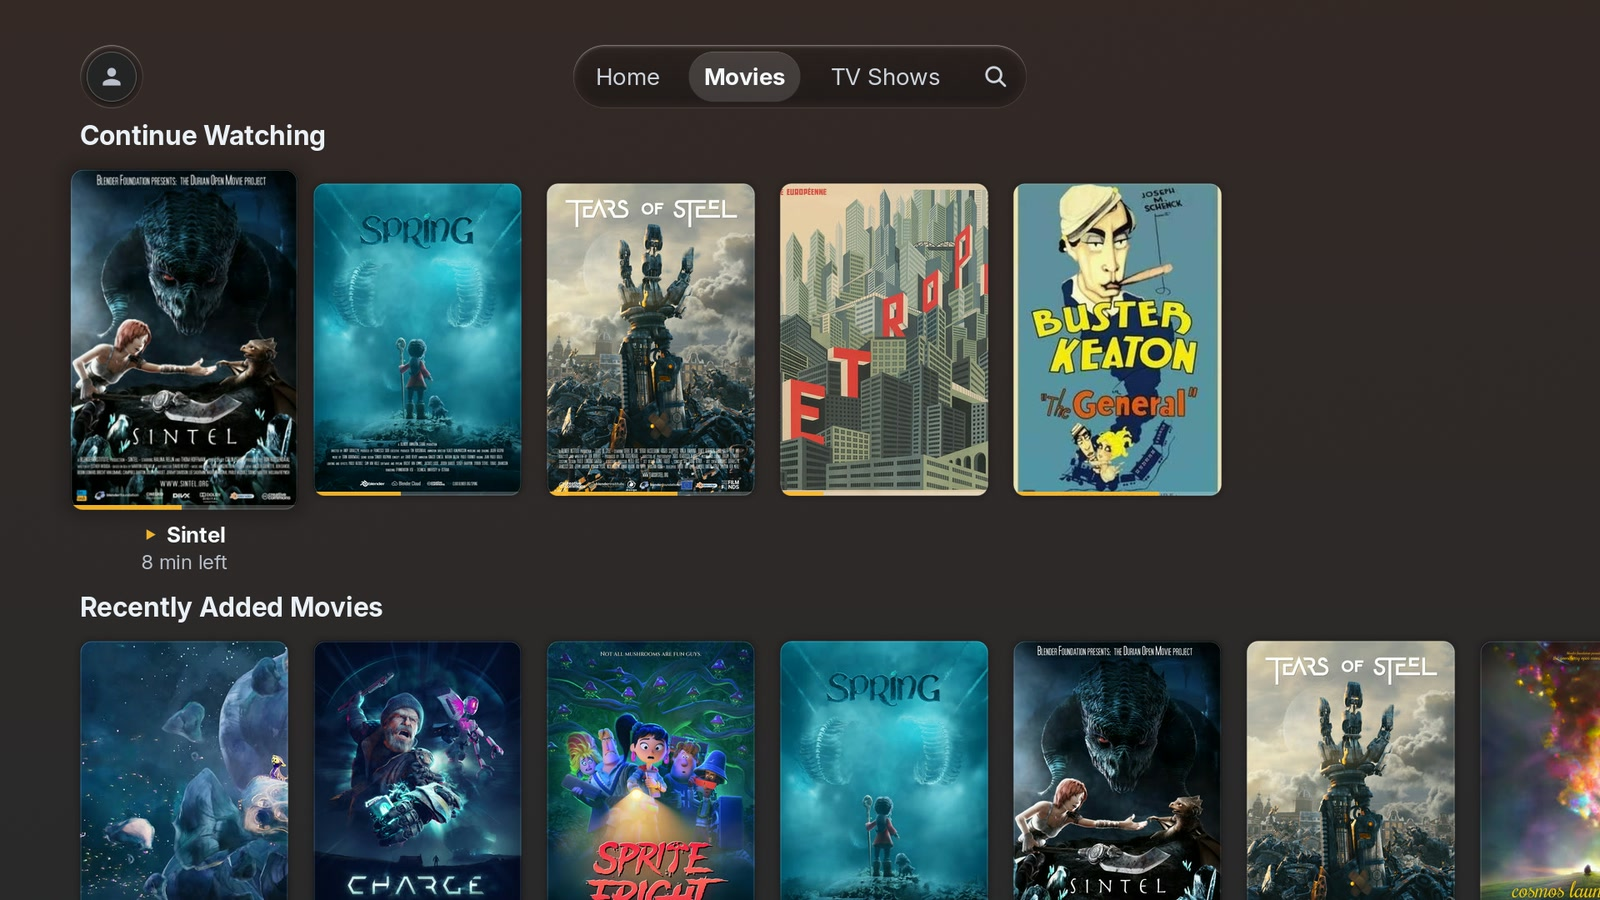
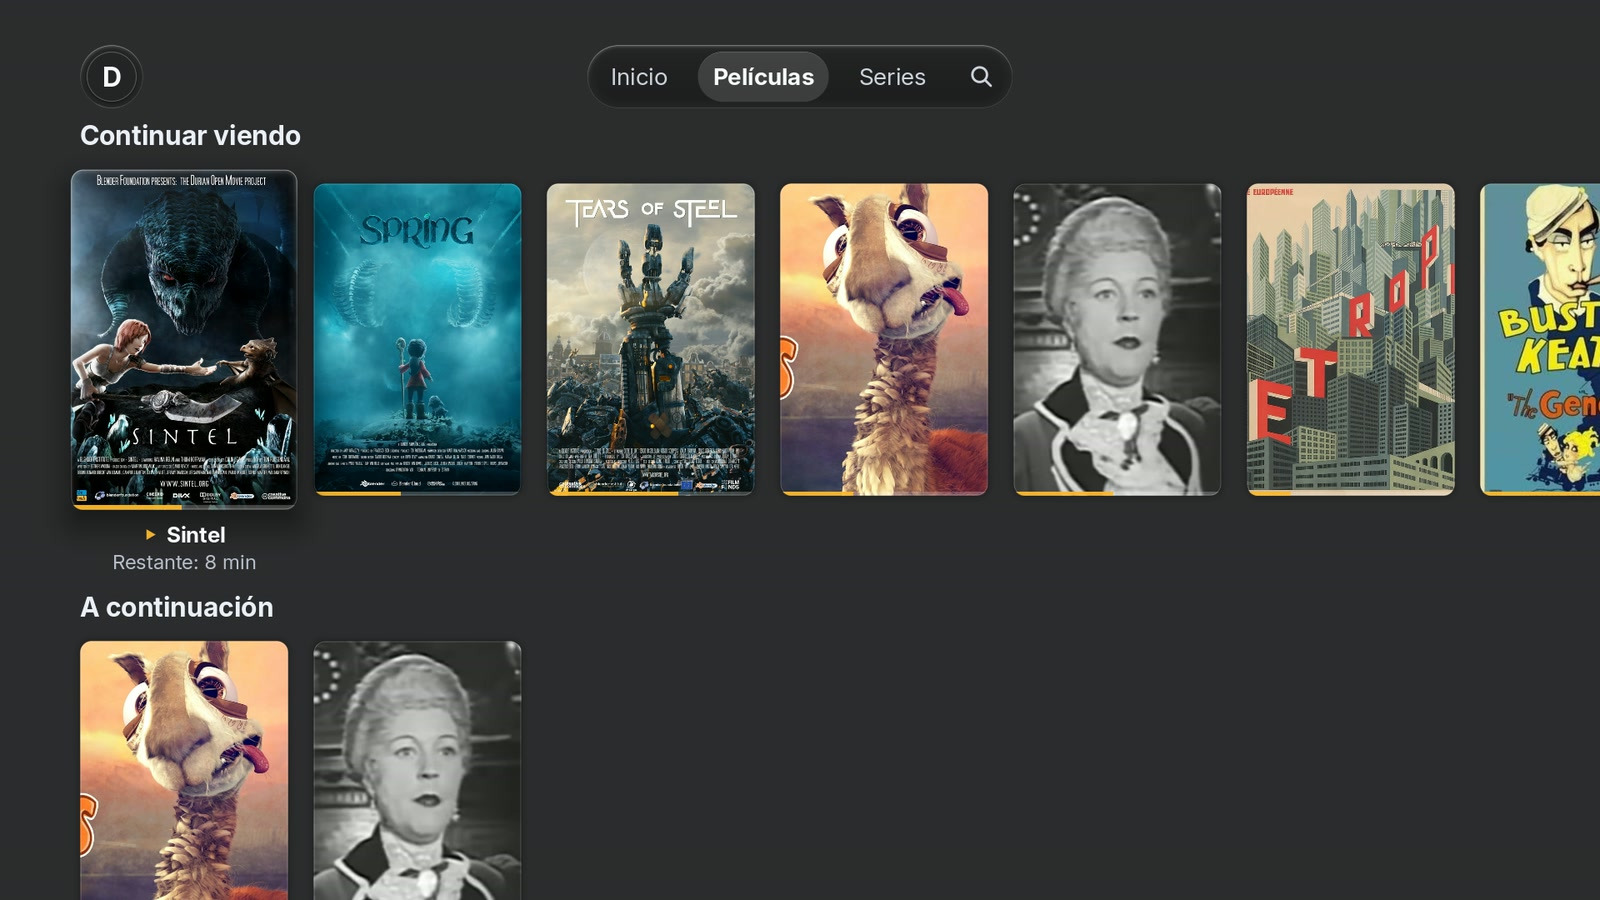
library: publish the catalog hub shelves (#238)
The library screen has drawn no hub shelves since #184 cut the Plex browse arms. The worker that fetched the shelves went with them and never came back on the Jellyfin catalog, so `LibraryScreen.shelves` stayed empty: the screen drew its grid only, and the `libshelf` screenshot trigger could never settle.

This publishes the catalog's shelves into the store the library already consumes.

## What changed

- `browse/section_hubs.rs`: `HubsSnapshot::projected()` builds a section-hubs snapshot from a catalog `HubsView`, so the presentation type and its consumers stay as they are. The catalog already fetches Continue Watching, Next Up and one "recently added" hub per Jellyfin view, and carries its own loading state.
- `app/bridge.rs`: `capture_views` projects the catalog snapshot into `section_hubs` when the catalog has hubs, so test bridges that seed the store directly keep their rows.
- `screens/library/mod.rs`: the shelf list keeps only the rows this section owns, comparing the hub id's Jellyfin GUID with the GUID behind the section's synthetic view key (`jellyfin::browse::view_for_key`), so a Movies library shows Continue Watching and its own latest row, not TV's. Free-form ids used by test seeds keep passing.
- `screens/library/draw.rs` and `focused_item` find the row by id in the publication instead of assuming publication order matches the drawn order.
[…]

diff --git a/rust-modules/src/screens/library/mod.rs b/rust-modules/src/screens/library/mod.rs
@@ -35,7 +35,7 @@ use crate::screens::registry::{
     LibraryReq, LibrarySectionIdentity, LibraryViewport, PageMemory,
 };
 use crate::stores::{StoreCmd, StoreId, StoreWork};
-use crate::stores::browse::{BrowseCmd, LibraryWork, SectionAddress};
+use crate::stores::browse::{BrowseCmd, HubsId, LibraryWork, SectionAddress};
 use crate::ui::card_row::{CardRow, RowStyle};
 use crate::ui::consts::{MARGIN_X, SCR_W, SCR_H, K_SCROLL, CARD_DY};
 use crate::ui::frame::Budget;
@@ -156,7 +156,7 @@ pub(crate) struct LibraryScreen {
     epoch: Option<u32>,
     query: Option<u32>,
     grid_reset_pending: bool,
-    shelf_publication: Option<(crate::browse::section_hubs::HubsId, u64)>,
+    shelf_publication: Option<(HubsId, u64)>,
     layout: Layout,
     target_layout: Layout,
     scroll: Spring,
@@ -381,7 +381,14 @@ impl LibraryScreen {
         if self.shelf_publication != publication {
             let mut old = std::mem::take(&mut self.shelves);
             if let Some(section) = &identity {
-                for (index, shelf) in hubs.shelves().iter().take(MAX_SHELVES).enumerate() {
+                // `section.key` is the synthetic view key, the hub id carries the Jellyfin GUID.
+                let wanted = crate::jellyfin::browse::view_for_key(section.key)
+                    .map(|guid| format!("jf.latest.{guid}"));
+                for (index, shelf) in hubs.shelves().iter().enumerate() {
+                    // Catalog shelves carry a `jf.latest.<view id>` id: keep only this section's.
+                    // Continue Watching has no view, and test seeds use free-form ids.
+                    if shelf.id.starts_with("jf.latest.") && Some(shelf.id.as_str()) != wanted.as_deref() { continue; }
+                    if self.shelves.len() >= MAX_SHELVES { break; }
                     let group = GroupId(self.keys.register(
                         LibraryIdentity::Control { section: section.clone(), kind: "shelf-group".into(), key: shelf.id.clone() },
                         GroupId(0), index));
@@ -535,7 +542,7 @@ impl LibraryScreen {
         if let Some(index) = self.pair.detail.index_of(key.elem) { return H::listing(cx).item(index); }
         let (row, col) = self.shelves.iter().enumerate().find_map(|(row, shelf)|
             shelf.elems.iter().position(|elem| *elem == key.elem).map(|col| (row, col)))?;
-        H::section_hubs(cx).shelves().get(row)?.items.get(col)
+        H::section_hubs(cx).shelves().iter().find(|s| s.id == self.shelves[row].id)?.items.get(col)
     }
 
     pub(crate) fn grid_position(&self, focus: Option<FocusKey<u32>>) -> Option<(usize, usize)> {
@@ -576,7 +583,9 @@ impl LibraryScreen {
 
     fn from_deck<H: LibraryLike>(&self, elem: u32, cx: &Cx<'_, H>) -> bool {
         self.shelves.iter().position(|row| row.elems.contains(&elem))
-            .and_then(|row| H::section_hubs(cx).shelves().get(row)).is_some_and(|row| row.is_continue)
+            .and_then(|row| self.shelves.get(row))
+            .and_then(|row| H::section_hubs(cx).shelves().iter().find(|s| s.id == row.id))
+            .is_some_and(|shelf| shelf.is_continue)
     }
 
     fn activate<H: LibraryLike>(&mut self, elem: u32, held: bool, cx: &Cx<'_, H>, fx: &mut Effects<'_, H>) -> Handled {

diff --git a/rust-modules/src/browse/section_hubs.rs b/rust-modules/src/browse/section_hubs.rs
@@ -138,6 +138,42 @@ impl HubsSnapshot {
             revision: self.revision,
         }
     }
+
+    /// The Library's shelves, read off the Home catalog. Since the server browse arm went (#166)
+    /// the catalog is the only owner of hub data left, so the publication this screen renders is a
+    /// projection of it rather than a second fetch. Items are cloned once per catalog generation,
+    /// never per frame: the caller stores the result and compares revisions.
+    ///
+    /// The projection publishes whatever the catalog holds right now, including nothing. The
+    /// catalog carries its own load state, and a screen that waited on its own first-paint window
+    /// here would hold itself at black for shelves nobody asked for.
+    pub(crate) fn projected(hubs: crate::catalog::HubsView<'_>) -> Self {
+        let mut shelves = Vec::with_capacity(hubs.hub_count());
+        for index in 0..hubs.hub_count() {
+            let Some(hub) = hubs.hub(index) else { continue };
+            let (id, key, is_continue) = match hub.identity {
+                Some(crate::catalog::HubIdentity::ContinueWatching) =>
+                    ("home.continue".to_string(), String::new(), true),
+                Some(crate::catalog::HubIdentity::Identifier { id, key, .. }) =>
+                    (id.to_string(), key.to_string(), false),
+                Some(crate::catalog::HubIdentity::Key { key, .. }) =>
+                    (key.to_string(), key.to_string(), false),
+                None => (format!("hub-{index}"), String::new(), false),
+            };
+            shelves.push(Shelf {
+                id, key, total: hub.items.len(), title: hub.title.to_string(),
+                is_continue, landscape: false, items: hub.items.to_vec(),
+            });
+        }
+        Self {
+            data: Some(Arc::new(shelves)),
+            // The catalog owns no section id. The projection carries a stand-in section so the
+            // publication keeps a stable identity and `sync` can tell one generation from the next.
+            id: Some(HubsId { epoch: hubs.generation, sid: ServerId::from_raw(0), section: 0 }),
+            publication: Publication::Committed,
+            revision: Some(u64::from(hubs.generation)),
+        }
+    }
 }
 
 /// A frame-borrowed read of one retained publication. Absence is explicit in [`HubsView::id`];

diff --git a/rust-modules/src/screens/library/draw.rs b/rust-modules/src/screens/library/draw.rs
@@ -135,7 +135,7 @@ impl LibraryScreen {
         self.draw_library_controls(f);
         crate::ui::profile::phase("lb.shelves", || {
             for (index, row) in self.shelves.iter().enumerate() {
-                let Some(shelf) = H::section_hubs(f.cx).shelves().get(index) else { continue };
+                let Some(shelf) = H::section_hubs(f.cx).shelves().iter().find(|s| s.id == row.id) else { continue };
                 let origin = self.layout.shelf_y(index, self.scroll.pos);
                 if !shelf_on_screen(origin, self.layout.shelf_pitch(index)) { continue; }
                 let heading_y = origin - crate::ui::consts::TITLE_DY - row.motion.lift();
@@ -232,7 +232,7 @@ impl LibraryScreen {
     }
 
     fn draw_shelf_tile<H: LibraryLike>(&self, row: usize, col: usize, focused: bool, f: &DrawFrame<'_, '_, H>) {
-        let Some(shelf) = H::section_hubs(f.cx).shelves().get(row) else { return };
+        let Some(shelf) = H::section_hubs(f.cx).shelves().iter().find(|s| s.id == self.shelves[row].id) else { return };
         let Some(item) = shelf.items.get(col) else { return };
         let model = &self.shelves[row];
         let style = row_style(model);

diff --git a/rust-modules/src/app/bridge.rs b/rust-modules/src/app/bridge.rs
@@ -707,6 +707,11 @@ impl Bridge {
         }
         let before = (self.hubs.view().generation, self.hubs.view().state);
         self.hubs = self.stores.hubs.snapshot();
+        // Test bridges seed `section_hubs` directly; an empty catalog must not overwrite it.
+        let hubs = self.hubs.view();
+        if hubs.hub_count() > 0 {
+            self.section_hubs = crate::browse::section_hubs::HubsSnapshot::projected(hubs);
+        }
         let after = (self.hubs.view().generation, self.hubs.view().state);
         let hubs_changed = before != after;
         (browse_changed, hubs_changed, search_changed)
